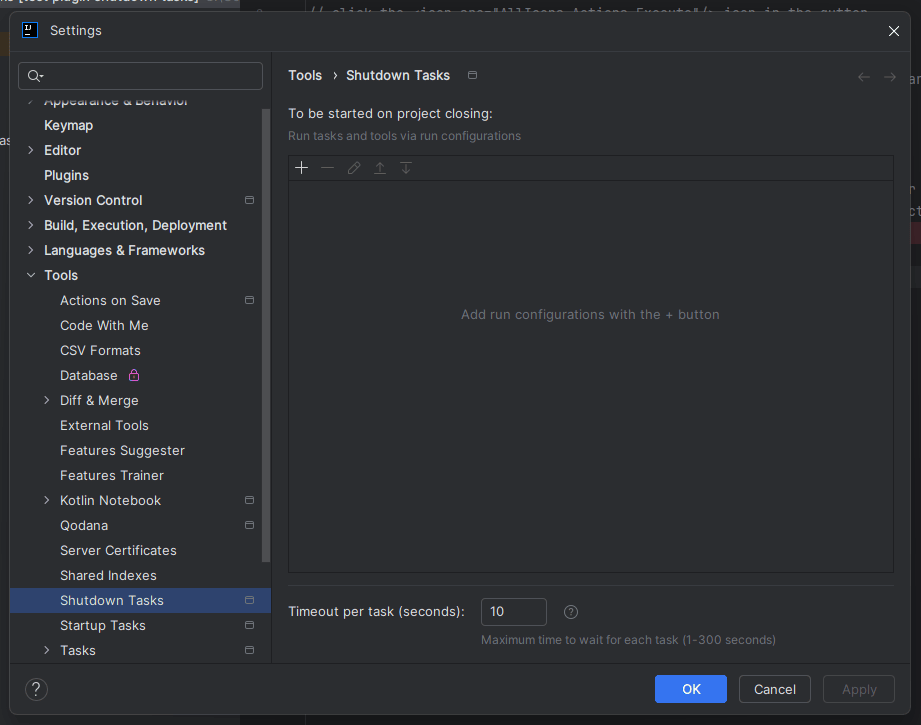
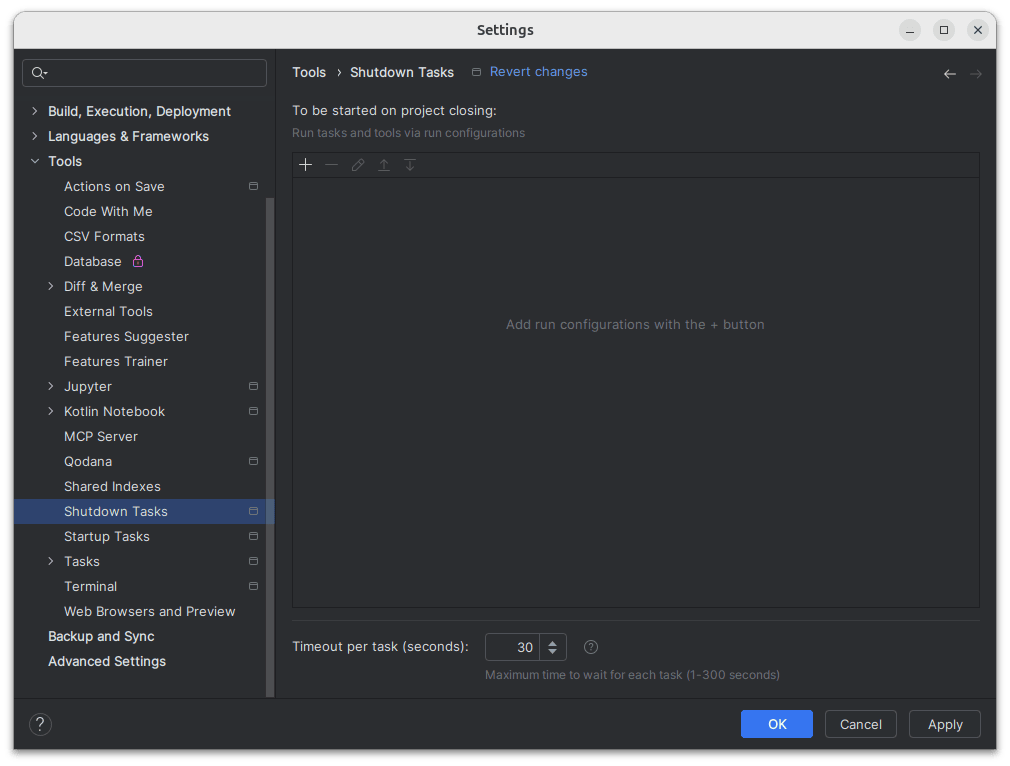
Update Screenshots, README and Plugin description

Changed region(s): [[0.0, 0.0, 1.0, 1.0], [0.4864, 0.3945, 0.7904, 0.4552]]

diff --git a/README.md b/README.md
@@ -119,7 +119,7 @@ cd shutdown-tasks
     - Select a run configuration
     - Use ▲ / ▼ buttons to change execution order
 
-7. **Set Timeout** (Only in synchronous mode)
+7. **Set Timeout**
     - Default: 5 seconds per task
     - Range: 1-300 seconds
     - ⚠ **Important:** The IDE will wait for the total duration of the timeout for each task where it is impossible to monitor execution.
@@ -167,7 +167,7 @@ exit
 ![PluginPage](assets/img/PluginPage.png)
 ![PluginEmptyConfig](assets/img/PluginEmptyConfig.png)
 ![PluginSelectConfiguration](assets/img/PluginSelectConfiguration.png)
-![PluginConfigFill](assets/img/PluginConfigFill.png)
+![PluginConfigFilled](assets/img/PluginConfigFilled.png)
 ![PluginClosedModal](assets/img/PluginClosedModal.png)
 
 ## Configuration Files
